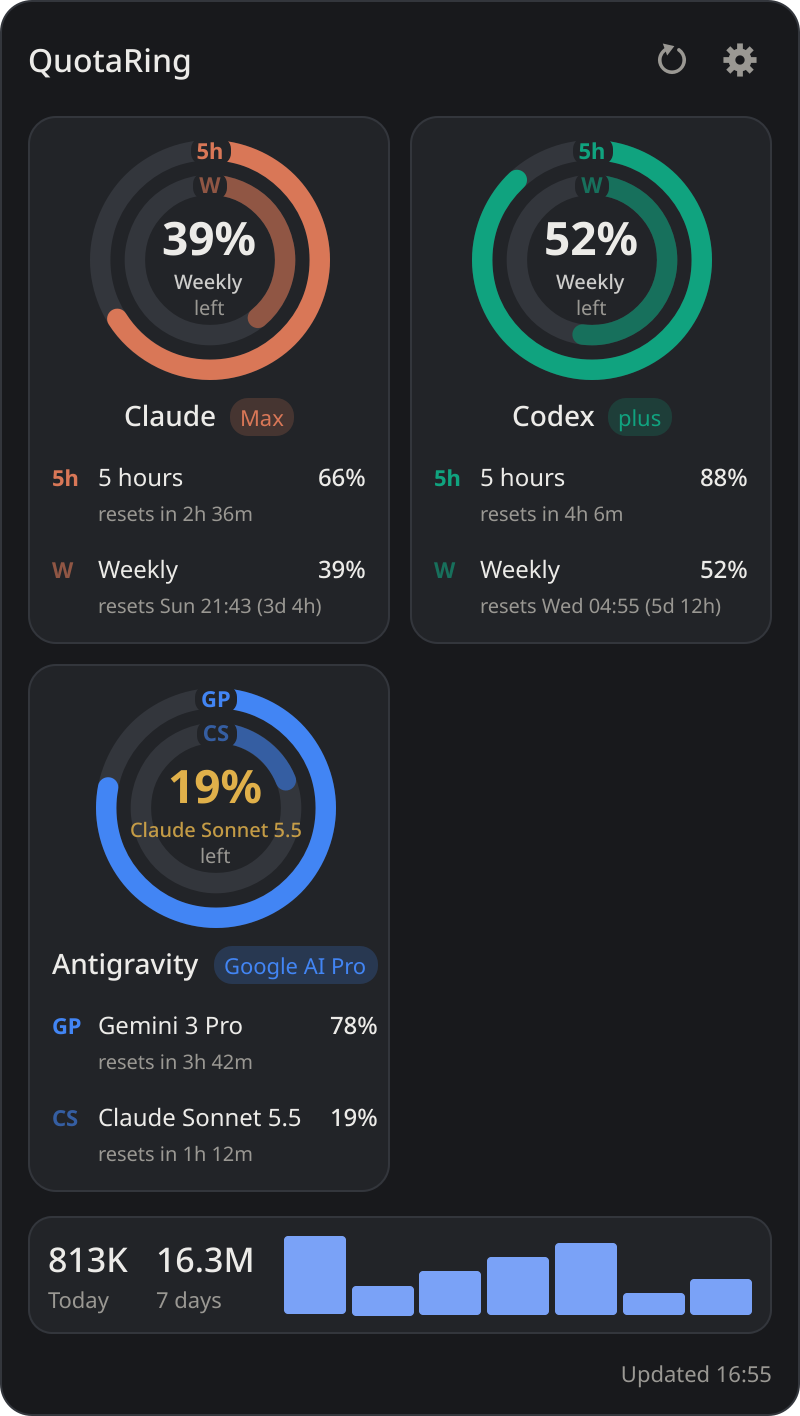
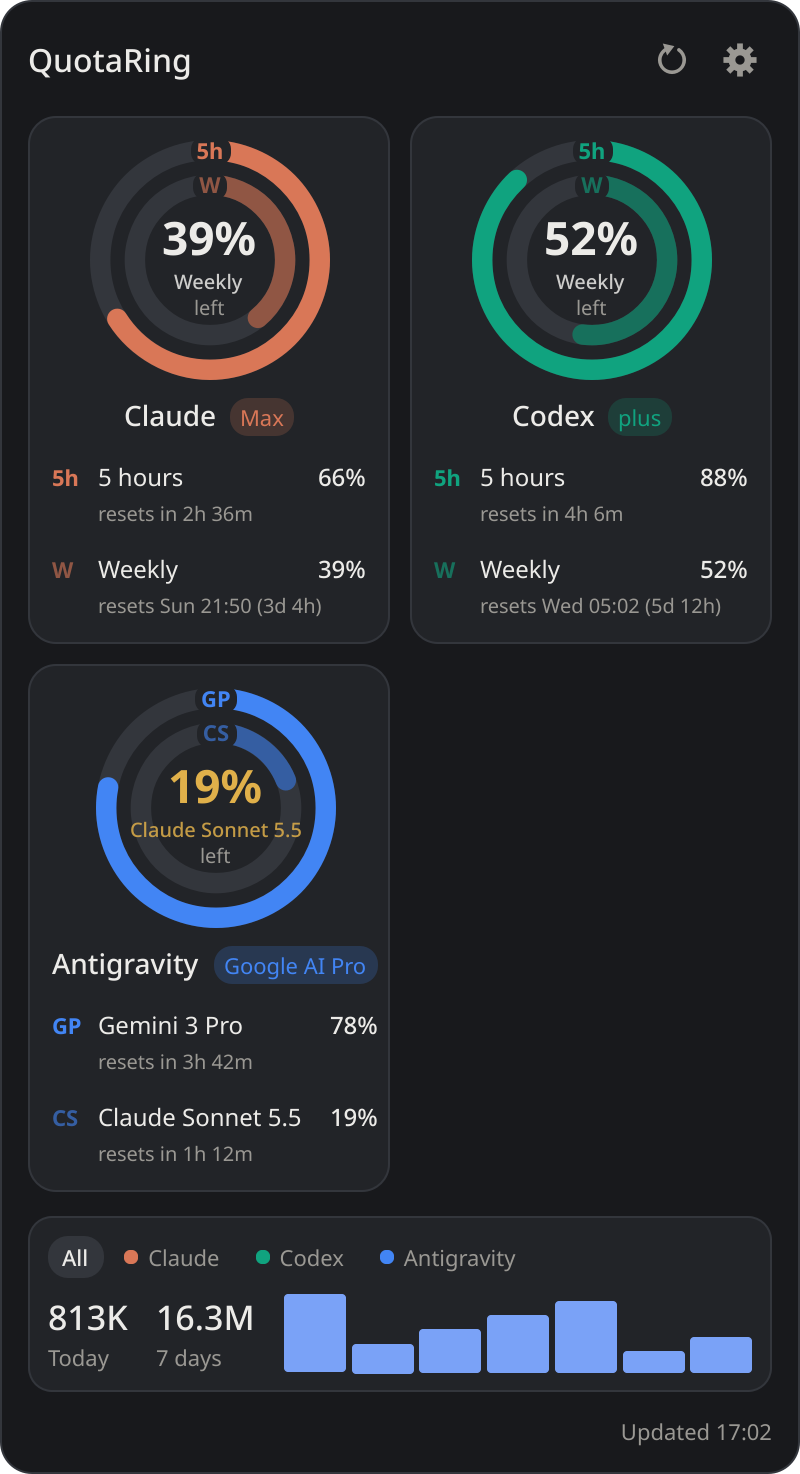
Token strip: All / per-provider chips; bars take the provider's colour

diff --git a/quotaring/ui/qml/PopupContent.qml b/quotaring/ui/qml/PopupContent.qml
@@ -7,10 +7,17 @@ import "Theme.js" as T
 // colour) and a strip of locally recorded tokens. Data: viewmodel.widget_view() as `backend.view`.
 Item {
     id: popup
+    objectName: "popupContent"
     readonly property var v: backend.view
     readonly property var c: backend.palette
     readonly property bool remaining: backend.prefs.showRemaining
-    readonly property var tok: v ? v.tokens.data["all"] : null
+    // Token strip: all providers together, or one picked from the chips above it.
+    property string tokGroup: "all"
+    readonly property var tok: v ? (v.tokens.data[tokGroup] || v.tokens.data["all"]) : null
+    readonly property color tokColor: {
+        for (const g of (v ? v.tokens.groups : [])) if (g.key === tokGroup && g.color) return g.color;
+        return c.accent;
+    }
     implicitHeight: body.implicitHeight + 28
 
     // Slide up, fade in and sweep the rings each time the window is shown.
@@ -97,14 +104,55 @@ Item {
             Rectangle {
                 visible: !!popup.tok
                 Layout.fillWidth: true
-                implicitHeight: strip.implicitHeight + 20
+                implicitHeight: stripBox.implicitHeight + 20
                 radius: 12
                 color: popup.c.card
                 border.color: popup.c.border
+                ColumnLayout {
+                id: stripBox
+                anchors.fill: parent
+                anchors.margins: 10
+                spacing: 8
+                // All / per-provider chips; hidden while only one provider has local data.
+                Row {
+                    visible: chips.count > 2
+                    spacing: 4
+                    Repeater {
+                        id: chips
+                        model: popup.v ? popup.v.tokens.groups : []
+                        delegate: Rectangle {
+                            id: chip
+                            required property var modelData
+                            readonly property bool active: (popup.v.tokens.data[popup.tokGroup] ? popup.tokGroup : "all") === modelData.key
+                            width: chipRow.implicitWidth + 14
+                            height: chipRow.implicitHeight + 6
+                            radius: height / 2
+                            color: active ? popup.c.track : (chipHover.hovered ? Qt.alpha(popup.c.track, 0.5) : "transparent")
+                            Row {
+                                id: chipRow
+                                anchors.centerIn: parent
+                                spacing: 5
+                                Rectangle {
+                                    visible: !!chip.modelData.color
+                                    width: 7; height: 7; radius: 3.5
+                                    anchors.verticalCenter: parent.verticalCenter
+                                    color: chip.modelData.color || "transparent"
+                                }
+                                Text {
+                                    text: chip.modelData.label
+                                    color: chip.active ? popup.c.text : popup.c.muted
+                                    font.pointSize: 8.5
+                                    font.weight: chip.active ? Font.DemiBold : Font.Normal
+                                }
+                            }
+                            HoverHandler { id: chipHover; cursorShape: Qt.PointingHandCursor }
+                            TapHandler { onTapped: popup.tokGroup = chip.modelData.key }
+                        }
+                    }
+                }
                 RowLayout {
                     id: strip
-                    anchors.fill: parent
-                    anchors.margins: 10
+                    Layout.fillWidth: true
                     spacing: 14
                     Repeater {
                         model: ["today", "7d"]
@@ -142,7 +190,7 @@ Item {
                                     width: parent.width
                                     radius: 2
                                     height: Math.max(2, parent.height * day.modelData.ratio)
-                                    color: day.modelData.value > 0 ? (hover.containsMouse ? popup.c.text : popup.c.accent) : popup.c.track
+                                    color: day.modelData.value > 0 ? (hover.containsMouse ? popup.c.text : popup.tokColor) : popup.c.track
                                     Behavior on height { NumberAnimation { duration: 300; easing.type: Easing.OutCubic } }
                                 }
                                 MouseArea { id: hover; anchors.fill: parent; hoverEnabled: true }
@@ -151,6 +199,7 @@ Item {
                             }
                         }
                     }
+                }
                 }
                 HoverHandler { id: stripHover }
                 ToolTip.visible: stripHover.hovered && !!popup.v

diff --git a/docs/screenshots.py b/docs/screenshots.py
@@ -24,7 +24,7 @@ os.environ["LANG"] = os.environ["LC_ALL"] = "C.UTF-8"  # English UI
 for var in ("XDG_CONFIG_HOME", "XDG_CACHE_HOME", "APPDATA", "LOCALAPPDATA"):
     os.environ[var] = _tmp
 
-from PySide6.QtCore import QRectF, Qt  # noqa: E402
+from PySide6.QtCore import QObject, QRectF, Qt  # noqa: E402
 from PySide6.QtGui import QColor, QFont, QImage, QPainter  # noqa: E402
 from PySide6.QtQuick import QQuickWindow  # noqa: E402,F401  (rootObjects() then yields QQuickWindow)
 from PySide6.QtWidgets import QApplication  # noqa: E402
@@ -80,12 +80,13 @@ def settle(app, n=40):
         time.sleep(0.01)
 
 
-def popup_shot(app, palette: theme.Palette, name: str) -> Popup:
+def popup_shot(app, palette: theme.Palette, name: str, tokens: str = "all") -> Popup:
     settings = Settings()
     backend = Backend(settings, palette)
     popup = Popup(backend, docked=False)
     popup.show()
     backend.set_view(viewmodel.widget_view(demo(), NOW))
+    popup.window.findChild(QObject, "popupContent").setProperty("tokGroup", tokens)
     settle(app)
     popup.window.grabWindow().save(str(OUT / name))
     return popup, backend, settings
@@ -117,7 +118,7 @@ def main():
     app = QApplication(sys.argv)
     font = QFont(app.font())
     app.setFont(font)
-    keep = [popup_shot(app, theme.DARK, "popup-dark.png"), popup_shot(app, theme.LIGHT, "popup-light.png")]
+    keep = [popup_shot(app, theme.DARK, "popup-dark.png"), popup_shot(app, theme.LIGHT, "popup-light.png", tokens="claude")]
     popup, backend, settings = keep[0]
     backend.set_settings_form(settings_form.form(settings, True))
     popup.open_settings()

diff --git a/tests/test_ui.py b/tests/test_ui.py
@@ -76,6 +76,22 @@ def test_all_states_render(app, settings, qml_errors, remaining, palette):
     assert qml_errors == []
 
 
+def test_token_strip_per_provider(app, settings, qml_errors):
+    from PySide6.QtCore import QObject
+    codex = snap(State.OK, State.OK)
+    codex.provider_id, codex.name = "codex", "Codex"
+    view = viewmodel.widget_view([snap(State.OK, State.OK), codex], NOW)
+    assert [g["key"] for g in view["tokens"]["groups"]] == ["all", "claude", "codex"]
+    backend, popup = popup_for(settings)
+    popup.show()
+    backend.set_view(view)
+    content = popup.window.findChild(QObject, "popupContent")
+    for group in ("codex", "gone", "all"):  # an unknown group falls back to all providers
+        content.setProperty("tokGroup", group)
+        settle(app, 2)
+    assert qml_errors == []
+
+
 def test_no_data_yet_renders(app, settings, qml_errors):
     _backend, popup = popup_for(settings)
     popup.show()

diff --git a/README.md b/README.md
@@ -30,7 +30,7 @@
 
 - 🟢 **One glance:** the tray icon is a ring around the tightest limit left, turning amber and red as it runs out.
 - 🧭 **All three tools in one popup:** 5-hour and weekly windows per provider, with reset times.
-- 📊 **Local token history:** today, 7 days and a 7-day bar chart from the tools' own logs.
+- 📊 **Local token history:** today, 7 days and a 7-day bar chart from the tools' own logs, for all tools together or one at a time.
 - 🔒 **No credentials touched:** limits come from each provider's own CLI or local cache; files are opened read-only.
 - 🔔 **Notifications** when a limit crosses your threshold (default 90 %).
 - 🖥 **Linux and Windows:** GNOME and KDE, X11 and Wayland (layer-shell popup on Plasma); English and Turkish UI.
@@ -124,6 +124,8 @@ This runs the tests, builds `dist\quotaring\quotaring.exe`, a zip, and — if
   weekly one, in the provider's colour; the middle shows the tightest limit — with reset times
   below, and a strip of locally recorded tokens (today, 7 days, last 7 days as bars).
   Each ring is tagged where it starts (5h / W); hover a ring or a row to light that limit.
+- The token strip shows all providers together; click **Claude**, **Codex** or **Antigravity**
+  above it to see one provider's tokens, with the bars in its colour.
 - Keys in the popup: F5 / Ctrl+R refresh · Ctrl+, settings · Esc close · Ctrl+Q quit.
 - The tray tooltip summarizes each provider (quota only when the provider reported it).
 - Only one instance runs per user; a second launch exits (`--allow-multiple` overrides).

diff --git a/CHANGELOG.md b/CHANGELOG.md
@@ -17,7 +17,8 @@ First public release.
 - OpenAI Codex: ChatGPT-plan limits via `codex app-server`; local token counts from rollout logs.
 - Google Antigravity: per-model limits from the IDE's local account-status cache; local token
   counts from its conversation databases (read-only).
-- Token strip: today, 7 days and a 7-day bar chart from local history.
+- Token strip: today, 7 days and a 7-day bar chart from local history, for all providers or
+  one picked from the chips above it.
 - Settings: theme, language (English / Turkish, follows the system by default), percent left or
   used, refresh intervals, start at login, quota notifications, per-provider toggles, CLI paths.
 - KDE Plasma Wayland: popup as a layer-shell surface anchored by the panel; XWayland fallback
